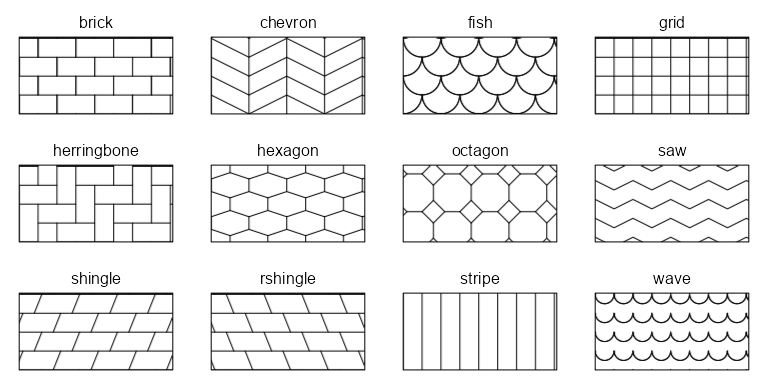
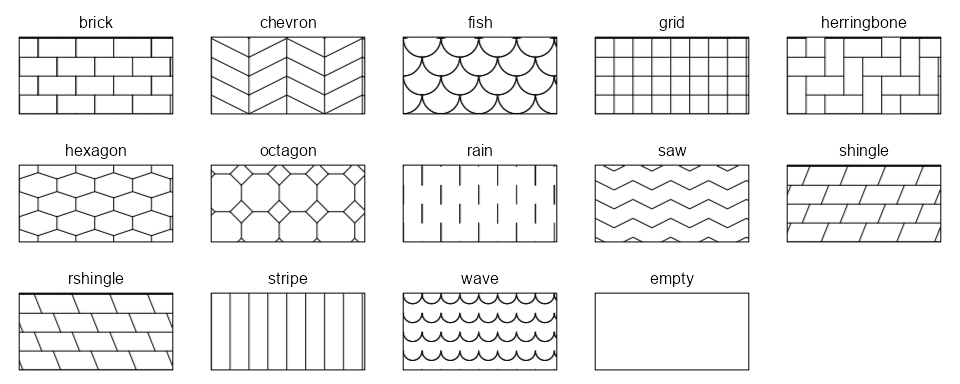
documentation and tests for v1.0.4

diff --git a/README.md b/README.md
@@ -20,10 +20,10 @@ Compared to the similar
 [`ggpattern`](https://coolbutuseless.github.io/package/ggpattern/index.html)
 package, `fillpattern`:
 
-- Has no dependencies beyond base R and
-  [`ggplot2`](https://ggplot2.tidyverse.org).
-- Works with `ggplot2::geom_*` functions.
-- Focuses on simple geometric patterns.
+-   Has no dependencies beyond base R and
+    [`ggplot2`](https://ggplot2.tidyverse.org).
+-   Works with `ggplot2::geom_*` functions.
+-   Focuses on simple geometric patterns.
 
 ## Installation
 
@@ -80,6 +80,8 @@ or
 [`scale_fill_pattern()`](https://cmmr.github.io/fillpattern/reference/scale_fill_pattern.html).
 
 ![](man/figures/README-unnamed-chunk-5-1.png)<!-- -->
+
+Use `"empty"` for a plain background with no pattern lines.
 
 ## Modified Patterns
 

diff --git a/NEWS.md b/NEWS.md
@@ -1,3 +1,11 @@
+# fillpattern 1.0.4
+
+## New Features
+
+* **Empty Pattern:** Added an `"empty"` pattern that renders only the background
+  color, for use as a baseline alongside patterned fills (@ulysg, #5).
+
+
 # fillpattern 1.0.3
 
 ## New Features
